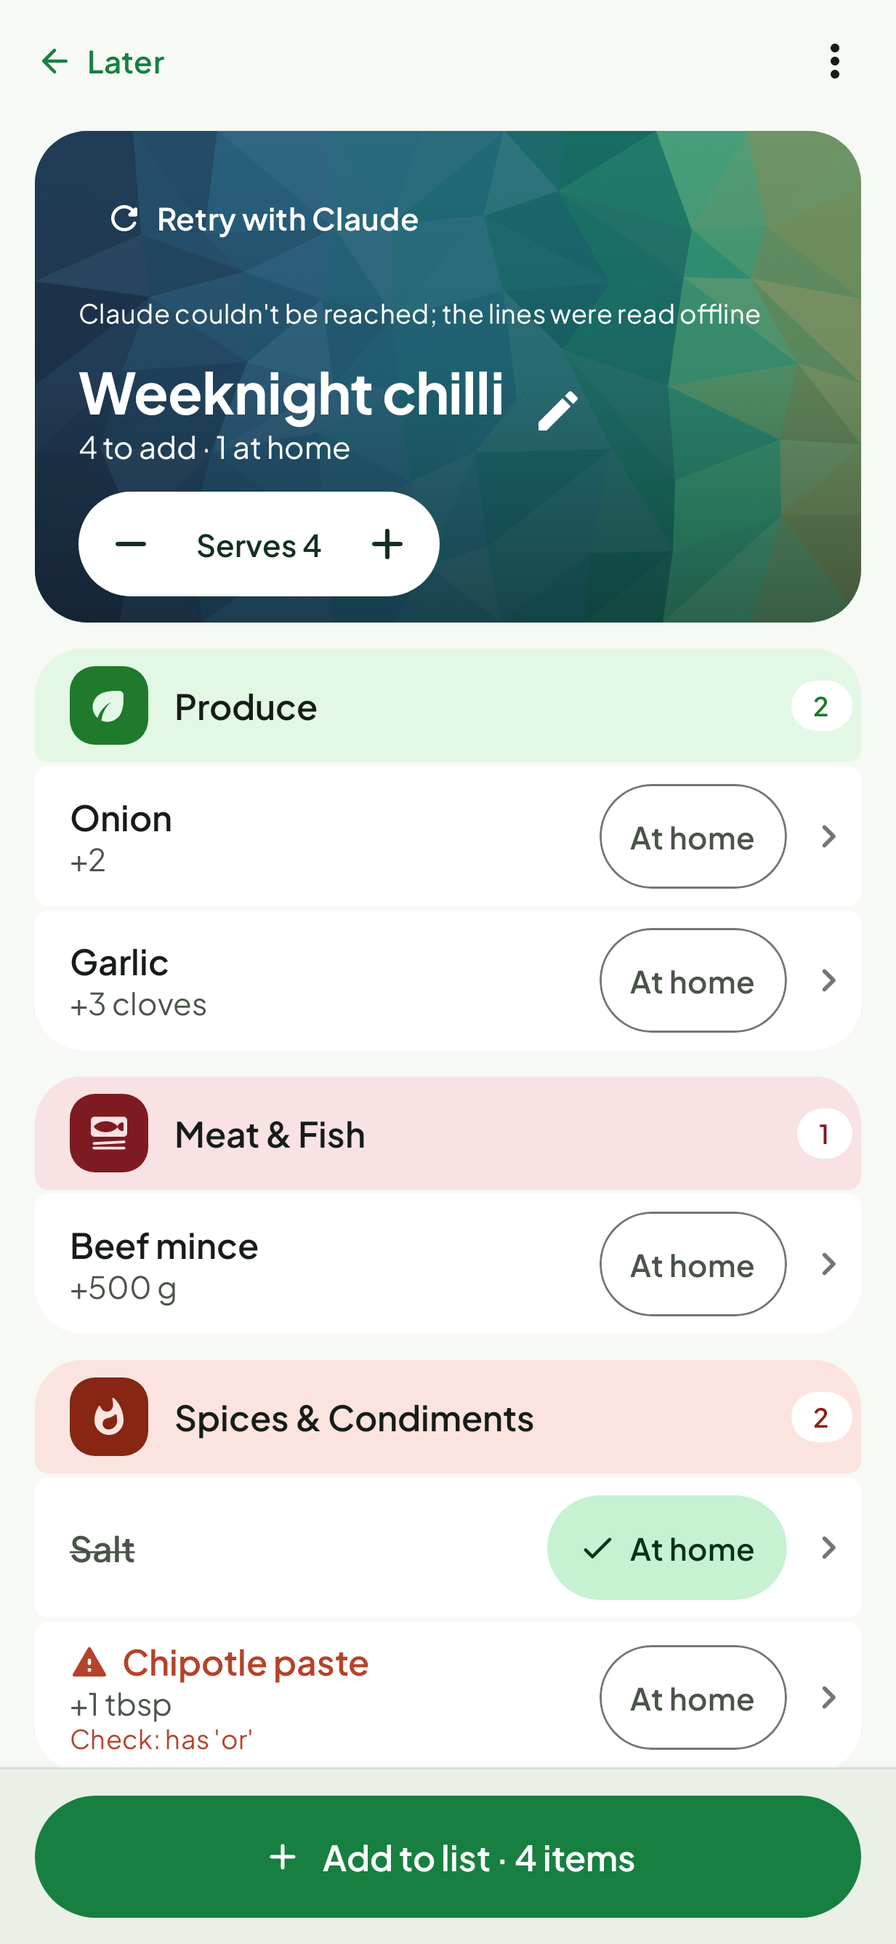
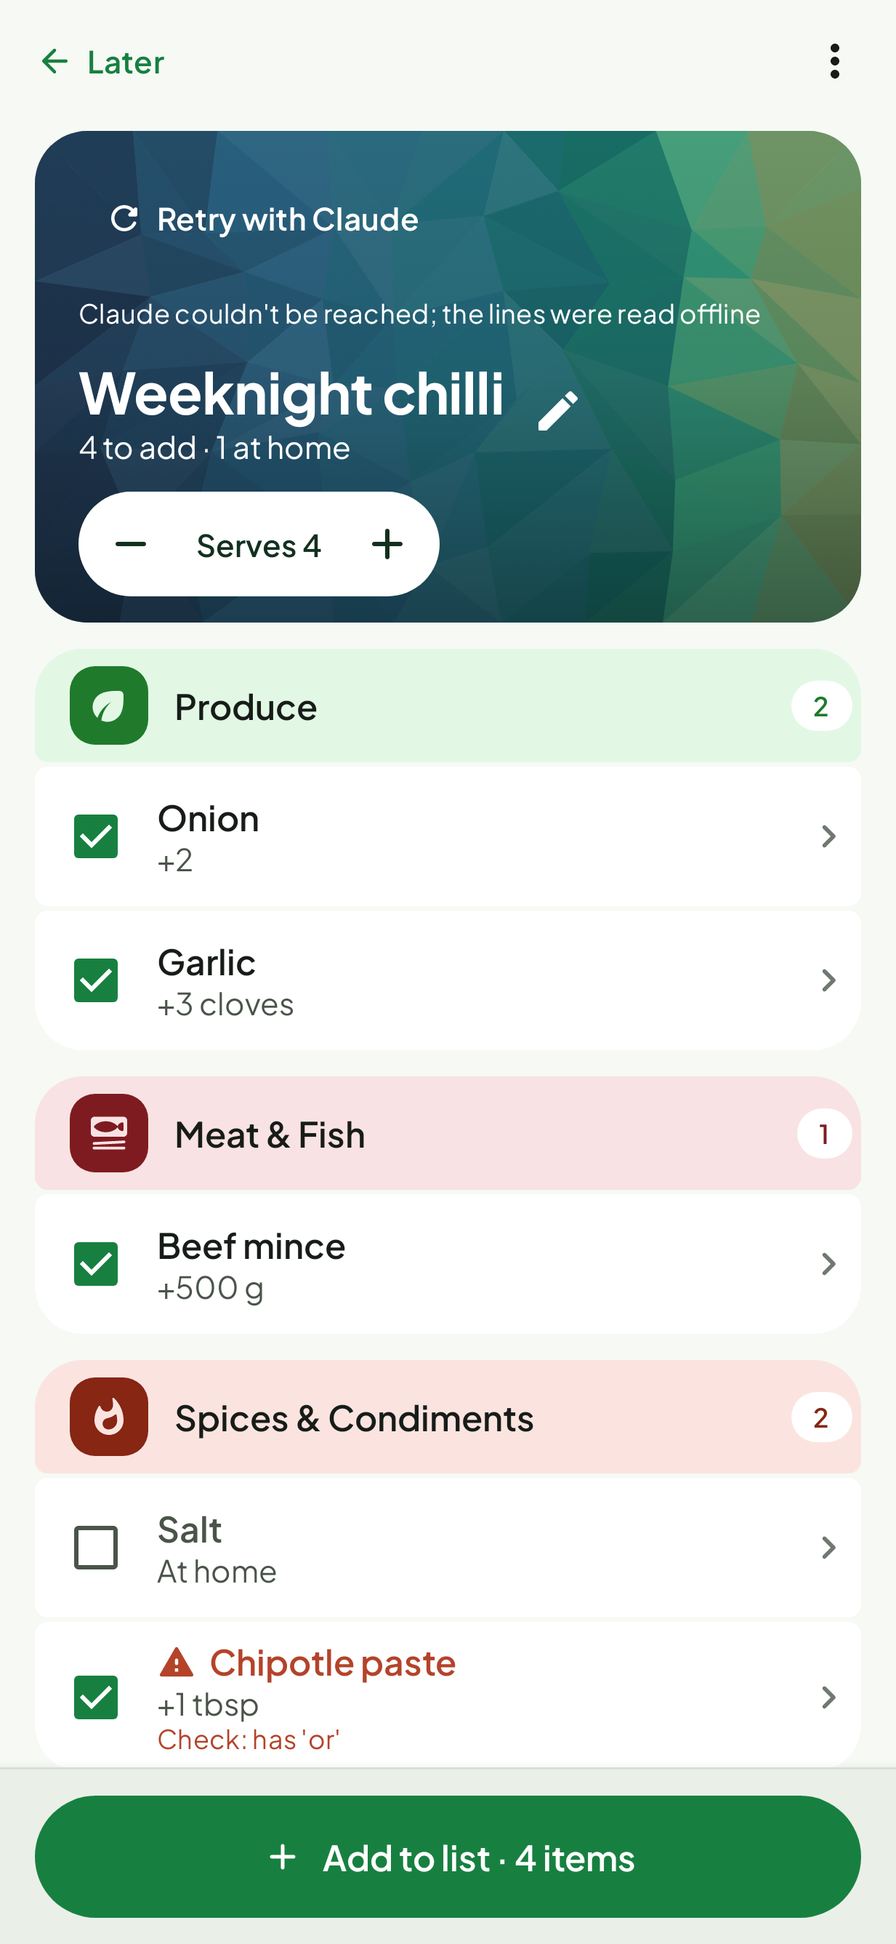
[AA.2] Review rows use a checkbox
The "At home" pill is now a leading checkbox: ticked adds, unticked rows are
greyed and say "At home". One TalkBack node per row with a state and a
toggle action; the decision underneath is unchanged.

Claude-Session: https://claude.ai/code/session_01XHyUGxiCMSHv96zvVnb1yh

diff --git a/android/app/src/main/java/com/robert4lyf/hypershop/ui/review/ReviewScreen.kt b/android/app/src/main/java/com/robert4lyf/hypershop/ui/review/ReviewScreen.kt
@@ -1,6 +1,5 @@
 package com.robert4lyf.hypershop.ui.review
 
-import androidx.compose.foundation.BorderStroke
 import androidx.compose.foundation.background
 import androidx.compose.foundation.clickable
 import androidx.compose.foundation.layout.Arrangement
@@ -22,7 +21,6 @@ import androidx.compose.foundation.lazy.LazyColumn
 import androidx.compose.foundation.lazy.itemsIndexed
 import androidx.compose.foundation.lazy.rememberLazyListState
 import androidx.compose.foundation.progressSemantics
-import androidx.compose.foundation.selection.toggleable
 import androidx.compose.foundation.shape.RoundedCornerShape
 import androidx.compose.foundation.text.KeyboardActions
 import androidx.compose.foundation.text.KeyboardOptions
@@ -43,6 +41,7 @@ import androidx.compose.material.icons.rounded.ReportProblem
 import androidx.compose.material3.AlertDialog
 import androidx.compose.material3.Button
 import androidx.compose.material3.ButtonDefaults
+import androidx.compose.material3.Checkbox
 import androidx.compose.material3.CircularProgressIndicator
 import androidx.compose.material3.DropdownMenu
 import androidx.compose.material3.DropdownMenuItem
@@ -55,7 +54,6 @@ import androidx.compose.material3.OutlinedTextField
 import androidx.compose.material3.Surface
 import androidx.compose.material3.Text
 import androidx.compose.material3.TextButton
-import androidx.compose.material3.minimumInteractiveComponentSize
 import androidx.compose.runtime.Composable
 import androidx.compose.runtime.CompositionLocalProvider
 import androidx.compose.runtime.LaunchedEffect
@@ -72,17 +70,23 @@ import androidx.compose.ui.focus.FocusRequester
 import androidx.compose.ui.focus.focusRequester
 import androidx.compose.ui.graphics.Color
 import androidx.compose.ui.platform.testTag
+import androidx.compose.ui.semantics.CustomAccessibilityAction
 import androidx.compose.ui.semantics.Role
+import androidx.compose.ui.semantics.clearAndSetSemantics
 import androidx.compose.ui.semantics.contentDescription
+import androidx.compose.ui.semantics.customActions
 import androidx.compose.ui.semantics.heading
+import androidx.compose.ui.semantics.invisibleToUser
 import androidx.compose.ui.semantics.semantics
 import androidx.compose.ui.semantics.stateDescription
+import androidx.compose.ui.semantics.testTag
+import androidx.compose.ui.semantics.toggleableState
+import androidx.compose.ui.state.ToggleableState
 import androidx.compose.ui.text.font.FontStyle
 import androidx.compose.ui.text.input.ImeAction
 import androidx.compose.ui.text.input.KeyboardCapitalization
 import androidx.compose.ui.text.input.KeyboardType
 import androidx.compose.ui.text.style.TextAlign
-import androidx.compose.ui.text.style.TextDecoration
 import androidx.compose.ui.text.style.TextOverflow
 import androidx.compose.ui.unit.dp
 import com.robert4lyf.hypershop.core.model.AisleCode
@@ -657,20 +661,21 @@ private fun AisleHeader(
 }
 
 /**
- * One row, one TalkBack node: name, quantity and the in-stock toggle (at most
- * 3 elements). Tapping the row opens its sheet; the pill toggles in stock. In
- * stock rows stay put, greyed and struck through (not colour alone).
+ * Step AA: one row, a leading checkbox and one TalkBack node. Ticked means "add this to the list"; an unticked row is
+ * at home (the decision underneath is unchanged: in stock), greyed and saying so. Tapping the row opens its sheet. The
+ * box is for the finger only: TalkBack reads the row (its name, its amount, and whether it will be added) and toggles
+ * it with the row's own action.
  */
+@OptIn(androidx.compose.ui.ExperimentalComposeUiApi::class)
 @Composable
 private fun ReviewRowItem(
     row: ReviewRow,
-    /** Null for a saved recipe being edited: no "At home" pill. */
+    /** Null for a saved recipe being edited: nothing is added, so no box. */
     onInStock: ((String, Boolean) -> Unit)?,
     onRow: (String) -> Unit,
     position: SectionPosition,
     card: Color,
 ) {
-    val struck = if (row.inStock) TextDecoration.LineThrough else TextDecoration.None
     val faded = if (row.inStock) MaterialTheme.colorScheme.onSurfaceVariant else MaterialTheme.colorScheme.onSurface
     val name = row.name.replaceFirstChar { it.uppercase() }
     Row(
@@ -678,107 +683,93 @@ private fun ReviewRowItem(
             .sectionItem(position, card)
             .fillMaxWidth()
             .heightIn(min = 64.dp)
-            .clickable(role = Role.Button, onClickLabel = "Edit") { onRow(row.key) }
-            .semantics(mergeDescendants = true) {}
-            .testTag("row-${row.key}")
-            .padding(start = 16.dp, end = 4.dp, top = 8.dp, bottom = 8.dp),
+            .padding(start = 4.dp, end = 4.dp),
         verticalAlignment = Alignment.CenterVertically,
-        horizontalArrangement = Arrangement.spacedBy(8.dp),
     ) {
-        Column(Modifier.weight(1f)) {
-            Row(verticalAlignment = Alignment.CenterVertically, horizontalArrangement = Arrangement.spacedBy(6.dp)) {
-                if (row.check) {
-                    // Decorative: the "Check: …" line below says it, so the row is not read twice.
-                    Icon(
-                        Icons.Rounded.ReportProblem,
-                        contentDescription = null,
-                        tint = MaterialTheme.colorScheme.tertiary,
-                        modifier = Modifier.size(18.dp),
-                    )
-                }
-                Text(
-                    name,
-                    style = MaterialTheme.typography.titleMedium,
-                    color = if (row.check && !row.inStock) MaterialTheme.colorScheme.tertiary else faded,
-                    textDecoration = struck,
-                )
-            }
-            // What this row does: "+200 ml" goes on, "needs 200 ml" is at home, or the list has it already.
-            val sub =
-                when {
-                    row.inStock -> row.quantity?.let { "needs $it" }
-                    !row.adds -> "Already on your shopping list"
-                    else -> row.quantity?.let { "+$it" }
-                }.let { s -> if (row.optional && !row.inStock) listOfNotNull(s, "optional").joinToString(" · ") else s }
-            sub?.let {
-                Text(
-                    it,
-                    style = MaterialTheme.typography.bodyMedium,
-                    color = MaterialTheme.colorScheme.onSurfaceVariant,
-                    textDecoration = struck,
-                )
-            }
-            if (row.check && !row.inStock) {
-                Text(
-                    row.checkReason?.let { "Check: ${ReviewViewModel.plainReason(it)}" } ?: "Check this line",
-                    style = MaterialTheme.typography.bodySmall,
-                    color = MaterialTheme.colorScheme.tertiary,
-                )
-                // The line as the recipe wrote it, so the reading can be judged without opening the sheet.
-                row.raw?.let {
-                    Text(
-                        "“$it”",
-                        style = MaterialTheme.typography.bodySmall,
-                        fontStyle = FontStyle.Italic,
-                        color = MaterialTheme.colorScheme.onSurfaceVariant,
-                        maxLines = 2,
-                        overflow = TextOverflow.Ellipsis,
-                    )
-                }
-            }
+        if (onInStock != null) {
+            Checkbox(
+                checked = !row.inStock,
+                onCheckedChange = { add -> onInStock(row.key, !add) },
+                modifier =
+                    Modifier.clearAndSetSemantics {
+                        testTag = "add-${row.key}"
+                        toggleableState = ToggleableState(!row.inStock)
+                        invisibleToUser()
+                    },
+            )
         }
-        // Step Z: the one place to say a recipe's ingredient is at home (the food-at-home check and the row sheet's
-        // switch went); staples from Settings › Always at home start on.
-        onInStock?.let { toggle -> InStockPill(row.inStock, name) { toggle(row.key, it) } }
-        Icon(
-            Icons.Rounded.ChevronRight,
-            contentDescription = null,
-            tint = MaterialTheme.colorScheme.outline,
-            modifier = Modifier.size(22.dp),
-        )
-    }
-}
-
-/** "At home" (you already have it): a pill, outlined when off, filled with a tick when on. A 48 dp target either way. */
-@Composable
-private fun InStockPill(
-    on: Boolean,
-    name: String,
-    onChange: (Boolean) -> Unit,
-) {
-    val shape = RoundedCornerShape(50)
-    Surface(
-        shape = shape,
-        color = if (on) MaterialTheme.colorScheme.primaryContainer else Color.Transparent,
-        contentColor = if (on) MaterialTheme.colorScheme.onPrimaryContainer else MaterialTheme.colorScheme.onSurfaceVariant,
-        border = if (on) null else BorderStroke(1.dp, MaterialTheme.colorScheme.outline),
-        modifier =
-            Modifier
-                .minimumInteractiveComponentSize()
-                .clip(shape)
-                .toggleable(value = on, role = Role.Checkbox, onValueChange = onChange)
-                .semantics {
-                    contentDescription = "At home: $name"
-                    stateDescription = if (on) "Already at home" else "Need to buy"
-                },
-    ) {
         Row(
-            Modifier.heightIn(min = 48.dp).padding(horizontal = 14.dp),
+            Modifier
+                .weight(1f)
+                .heightIn(min = 64.dp)
+                .clickable(role = Role.Button, onClickLabel = "Edit") { onRow(row.key) }
+                .semantics(mergeDescendants = true) {
+                    if (onInStock != null) {
+                        stateDescription = if (row.inStock) "At home, not added" else "Will be added"
+                        customActions =
+                            listOf(
+                                CustomAccessibilityAction(if (row.inStock) "Add to list" else "Mark at home") {
+                                    onInStock(row.key, !row.inStock)
+                                    true
+                                },
+                            )
+                    }
+                }.testTag("row-${row.key}")
+                .padding(start = if (onInStock != null) 4.dp else 12.dp, top = 8.dp, bottom = 8.dp),
             verticalAlignment = Alignment.CenterVertically,
-            horizontalArrangement = Arrangement.spacedBy(6.dp),
         ) {
-            if (on) Icon(Icons.Rounded.Check, contentDescription = null, modifier = Modifier.size(18.dp))
-            Text("At home", style = MaterialTheme.typography.labelLarge)
+            Column(Modifier.weight(1f)) {
+                Row(verticalAlignment = Alignment.CenterVertically, horizontalArrangement = Arrangement.spacedBy(6.dp)) {
+                    if (row.check) {
+                        // Decorative: the "Check: …" line below says it, so the row is not read twice.
+                        Icon(
+                            Icons.Rounded.ReportProblem,
+                            contentDescription = null,
+                            tint = MaterialTheme.colorScheme.tertiary,
+                            modifier = Modifier.size(18.dp),
+                        )
+                    }
+                    Text(
+                        name,
+                        style = MaterialTheme.typography.titleMedium,
+                        color = if (row.check && !row.inStock) MaterialTheme.colorScheme.tertiary else faded,
+                    )
+                }
+                // What this row does: the amount that goes on, "At home", or the list has it already.
+                val sub =
+                    when {
+                        row.inStock -> listOfNotNull("At home", row.quantity?.let { "needs $it" }).joinToString(" · ")
+                        !row.adds -> "Already on your shopping list"
+                        else -> row.quantity?.let { "+$it" }
+                    }.let { s -> if (row.optional && !row.inStock) listOfNotNull(s, "optional").joinToString(" · ") else s }
+                sub?.let {
+                    Text(it, style = MaterialTheme.typography.bodyMedium, color = MaterialTheme.colorScheme.onSurfaceVariant)
+                }
+                if (row.check && !row.inStock) {
+                    Text(
+                        row.checkReason?.let { "Check: ${ReviewViewModel.plainReason(it)}" } ?: "Check this line",
+                        style = MaterialTheme.typography.bodySmall,
+                        color = MaterialTheme.colorScheme.tertiary,
+                    )
+                    // The line as the recipe wrote it, so the reading can be judged without opening the sheet.
+                    row.raw?.let {
+                        Text(
+                            "“$it”",
+                            style = MaterialTheme.typography.bodySmall,
+                            fontStyle = FontStyle.Italic,
+                            color = MaterialTheme.colorScheme.onSurfaceVariant,
+                            maxLines = 2,
+                            overflow = TextOverflow.Ellipsis,
+                        )
+                    }
+                }
+            }
+            Icon(
+                Icons.Rounded.ChevronRight,
+                contentDescription = null,
+                tint = MaterialTheme.colorScheme.outline,
+                modifier = Modifier.size(22.dp),
+            )
         }
     }
 }

diff --git a/android/app/src/test/java/com/robert4lyf/hypershop/ui/review/ReviewScreenTest.kt b/android/app/src/test/java/com/robert4lyf/hypershop/ui/review/ReviewScreenTest.kt
@@ -1,18 +1,21 @@
 package com.robert4lyf.hypershop.ui.review
 
+import androidx.compose.ui.semantics.SemanticsActions
 import androidx.compose.ui.semantics.SemanticsProperties
 import androidx.compose.ui.semantics.getOrNull
 import androidx.compose.ui.test.assertCountEquals
 import androidx.compose.ui.test.assertHeightIsAtLeast
 import androidx.compose.ui.test.assertIsEnabled
 import androidx.compose.ui.test.assertIsNotEnabled
+import androidx.compose.ui.test.assertIsOff
+import androidx.compose.ui.test.assertIsOn
 import androidx.compose.ui.test.assertTextContains
 import androidx.compose.ui.test.assertTextEquals
 import androidx.compose.ui.test.hasScrollAction
 import androidx.compose.ui.test.hasText
 import androidx.compose.ui.test.isHeading
 import androidx.compose.ui.test.junit4.createComposeRule
-import androidx.compose.ui.test.onAllNodesWithContentDescription
+import androidx.compose.ui.test.onAllNodesWithTag
 import androidx.compose.ui.test.onAllNodesWithText
 import androidx.compose.ui.test.onNodeWithContentDescription
 import androidx.compose.ui.test.onNodeWithTag
@@ -97,22 +100,25 @@ class ReviewScreenTest {
     }
 
     @Test
-    fun eachRowIsOneNodeWithAtMostThreeElements() {
+    fun eachRowIsOneNodeStatingNameAmountAndWhetherItIsAdded() {
+        // Step AA: TalkBack reads the row (name, amount, "Will be added") and toggles it with the row's own action; the
+        // checkbox is for the finger only.
         show()
-        val node = compose.onNodeWithTag("row-cat:onion", useUnmergedTree = false).fetchSemanticsNode()
+        val node = compose.onNodeWithTag("row-cat:onion").fetchSemanticsNode()
         val texts = node.config.getOrNull(SemanticsProperties.Text).orEmpty().map { it.text }
-        val toggle = node.children.count { it.config.getOrNull(SemanticsProperties.ToggleableState) != null }
-        // name, quantity (what goes on) and the in-stock box.
         assertTrue("texts $texts", texts.containsAll(listOf("Onion", "+2")))
-        assertTrue(texts.size + toggle <= 4) // "In stock" label + name + quantity + box, read as one node
+        assertEquals("Will be added", node.config.getOrNull(SemanticsProperties.StateDescription))
+        val action = node.config[SemanticsActions.CustomActions].single()
+        assertEquals("Mark at home", action.label)
+        compose.runOnIdle { action.action() }
         compose.onNodeWithTag("row-cat:onion").performClick()
-        assertEquals("row cat:onion", events.last())
+        assertEquals(listOf("stock cat:onion true", "row cat:onion"), events)
     }
 
     @Test
     fun aSavedRecipeBeingEditedHasNoInStockOrServings() {
         show(SAMPLE_REVIEW.copy(editing = true, savedOnly = true))
-        compose.onAllNodesWithContentDescription("At home", substring = true).assertCountEquals(0)
+        compose.onAllNodesWithTag("add-cat:onion", useUnmergedTree = true).assertCountEquals(0)
         compose.onAllNodesWithText("Serves", substring = true).assertCountEquals(0)
         compose.onNodeWithText("Save changes").assertExists()
     }
@@ -139,13 +145,16 @@ class ReviewScreenTest {
     }
 
     @Test
-    fun everyRowHasTheAtHomeToggleAndItIsTheOnePlaceToSaySo() {
-        // Step Z: the row's pill is the one place a recipe's ingredient is said to be at home (the food-at-home check,
-        // the row sheet's switch and its "Always at home" went), so every row shows it, on or off.
+    fun everyRowHasACheckboxTickedMeansAddUntickedIsAtHome() {
+        // Step AA: the pill became a leading checkbox. Ticked adds; an unticked row is at home and says so.
         show()
-        val rows = SAMPLE_REVIEW.aisles.sumOf { it.second.size }
-        compose.onAllNodesWithText("At home").assertCountEquals(rows)
-        compose.onNodeWithContentDescription("At home: Onion").performClick()
+        val rows = SAMPLE_REVIEW.aisles.flatMap { it.second }
+        rows.forEach { r ->
+            val box = compose.onNodeWithTag("add-${r.key}", useUnmergedTree = true)
+            if (r.inStock) box.assertIsOff() else box.assertIsOn()
+        }
+        compose.onAllNodesWithText("At home", substring = true).assertCountEquals(rows.count { it.inStock })
+        compose.onNodeWithTag("add-cat:onion", useUnmergedTree = true).performClick()
         compose.onNodeWithTag("cupboard-hint").assertDoesNotExist()
         assertEquals(listOf("stock cat:onion true"), events)
     }

diff --git a/docs/design/simple-ux.md b/docs/design/simple-ux.md
@@ -25,7 +25,7 @@ fewer modes and one word per idea. The data model is unchanged; every action cal
 | An item or a recipe's items all bought | **bought** ("2 bought", "Bought ✓", "All bought") | done, Done ✓ |
 | Take a recipe's items off the list | **Remove from list** (only what is unbought goes) | Remove meal, ✕ |
 | Delete a saved recipe | **Delete recipe** | Remove from your recipes |
-| Something is already at home | **At home** (the review row's toggle; staples in Settings start on) | Have it, Have some, I have some |
+| Something is already at home | **At home** (an unticked review row; staples in Settings start unticked) | Have it, Have some, I have some |
 | Can't get it on this trip | **Can't find it** → *Set aside for this trip*; **Found it** takes it back | Unavailable, Not available today |
 | End the trip | **Finish shopping** | Done |
 | Keep a reviewed recipe without adding it | **Save recipe only** (review ⋮ menu) | Save recipe, Save for later |
@@ -40,7 +40,7 @@ On the review, lines still to go on the list are counted as **N to add** ("4 to 
 | **Add to list** | Recipes card and sheet | `Planner.addToList` → `ListRepository.addSavedRecipe(plan = true)`: the review's own `apply`, planned for this week and linked in its transaction. Undo: `Planner.takeBack` (`unplan`: only unbought shares) |
 | **Add to list · N items** | Review | review `apply` (plans itself; an edit relinks) |
 | **Save recipe only** | Review ⋮ | review `saveForLater` |
-| **At home** | Review row | the row's decision (in stock); staples from Settings › Always at home start on |
+| **Checkbox** (ticked = add; unticked rows are greyed and say **At home**) | Review row | the row's decision (in stock); staples from Settings › Always at home start unticked; TalkBack reads the row as one node (name, amount, "Will be added" or "At home, not added") and toggles it with "Mark at home" / "Add to list" |
 | **− Serves N +** | A recipe on the list: its Recipes card and sheet (in place of Add to list), and its card on the list (Group by recipe, ⋮) | `Planner.setUseServings` on each press (the meal and the use rescaled together; what was bought stays bought). On the list twice, the latest is changed and the card says "on the list twice" |
 | **Remove from list** | A recipe on the list: its Recipes card's ⋮, its card on the list (⋮), its ingredients sheet | `ListRepository.removeFromList` for each time it is on the list (the use goes only when nothing of it is bought; otherwise unbought shares are withdrawn); one Undo |
 | **Can't find it** / **Found it** | The item's sheet | `markUnavailable` / `markAvailable` |

diff --git a/PROGRESS.md b/PROGRESS.md
@@ -380,7 +380,11 @@ A follow-up review of Step Z found the remaining friction in a few places, and t
 
 - [x] AA.0 Baseline on e293db6 (`JourneyTest`, taps · typed · scrolls · screen changes): core job 6 · 0 · 0 · 2; quick shopping 7 · 2 · 0 · 0; meal-based 15 · 1 · 4 · 4 (as Z.9 recorded) — check: `JourneyTest`
 - [x] AA.1 Servings and state on the Recipes card. Verified: the card showed "On the shopping list" beside an "Add to list" that added the recipe a second time. Now a recipe on the list shows "− Serves N +" in place of Add to list, on its card and in its sheet (`ServingsStepper`, shared); each press calls `Planner.setUseServings` (bought stays bought) and says nothing, the number being on screen. Its ⋮ gains "Remove from list" (`removeFromList` for each time it is on the list, one Undo). The list's recipe card has the same stepper in its ⋮ menu; the Servings dialog and its Done are gone. On the list more than once (a share added again): the stepper shows and changes the latest, the card says "on the list twice", and Group by recipe has a card for each. A recipe that does not say how many it serves shows "On the shopping list" and no stepper. Meal journey: 15 → 10 taps, 4 → 3 screen changes (servings is one tap on the card just added); it now waits out the "Added" snackbar over the rice row, which AA.4 fixes — check: `RecipesScreenTest.onTheListTheCardShowsServings…`, `RecipesViewModelTest.onTheListTheCardsServings…` (a purchase survives Remove from list), `ListScreenTest.byRecipe…`, `JourneyTest`
-- [ ] AA.2 Review rows use a checkbox
+- [x] AA.2 Review rows use a checkbox. The "At home" pill became a leading checkbox (ticked = add); an unticked row is
+  greyed and reads "At home · needs N". The decision underneath is still `inStock`; staples start unticked because
+  `defaultDecisions` already marks them in stock (claim checked). The box is hidden from TalkBack; the row is one node
+  with the name, the amount, a state ("Will be added" / "At home, not added") and a custom action that toggles it. The
+  summary and the button count already followed `addCount`.
 - [ ] AA.3 Review wording
 - [ ] AA.4 Snackbars never cover the bottom action
 - [ ] AA.5 Compact list header
